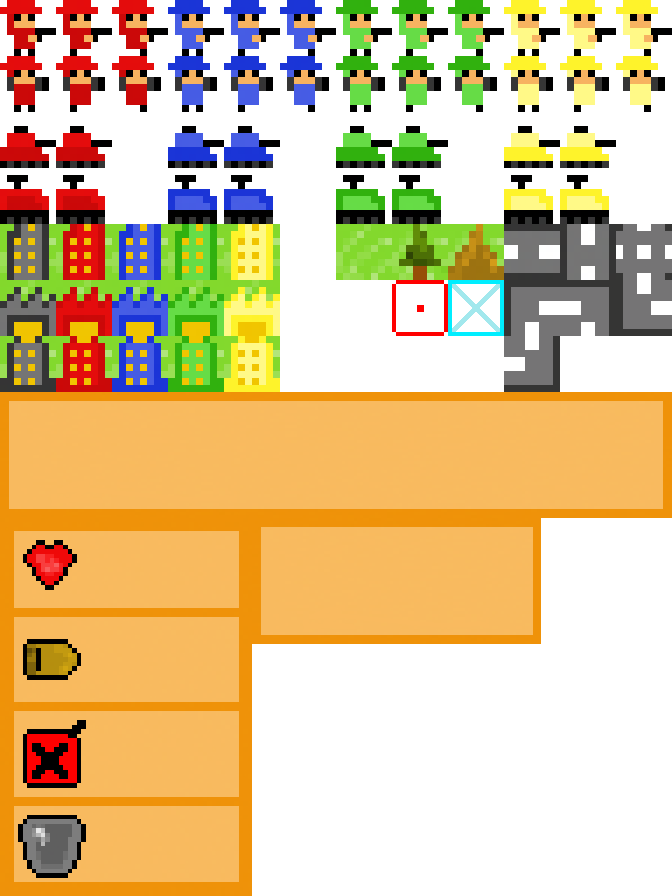
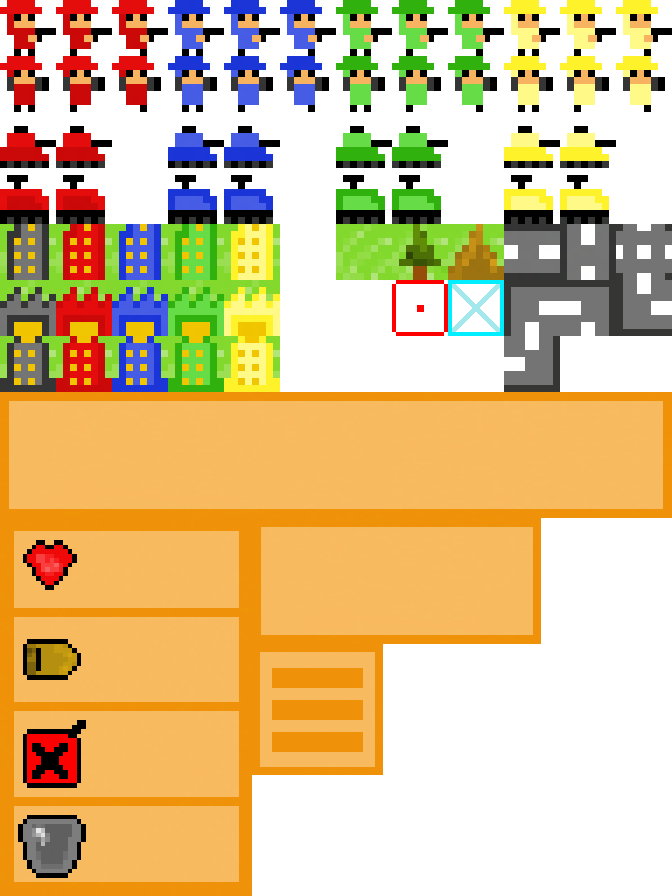
Added pause button

Changed region(s): [[0.375, 0.7188, 0.5938, 0.875]]

diff --git a/Entities/Button.cs b/Entities/Button.cs
@@ -94,6 +94,13 @@ namespace Basic_Wars_V2.Entities
                     Height = 378;
                     break;
                 case 3:
+                    //Pause
+                    ButtonShiftX = 252;
+                    ButtonShiftY = 791;
+                    Width = 131;
+                    Height = 131;
+                    break;
+                case 4:
                     //Tile
                     ButtonShiftX = 500;
                     ButtonShiftY = 500;
